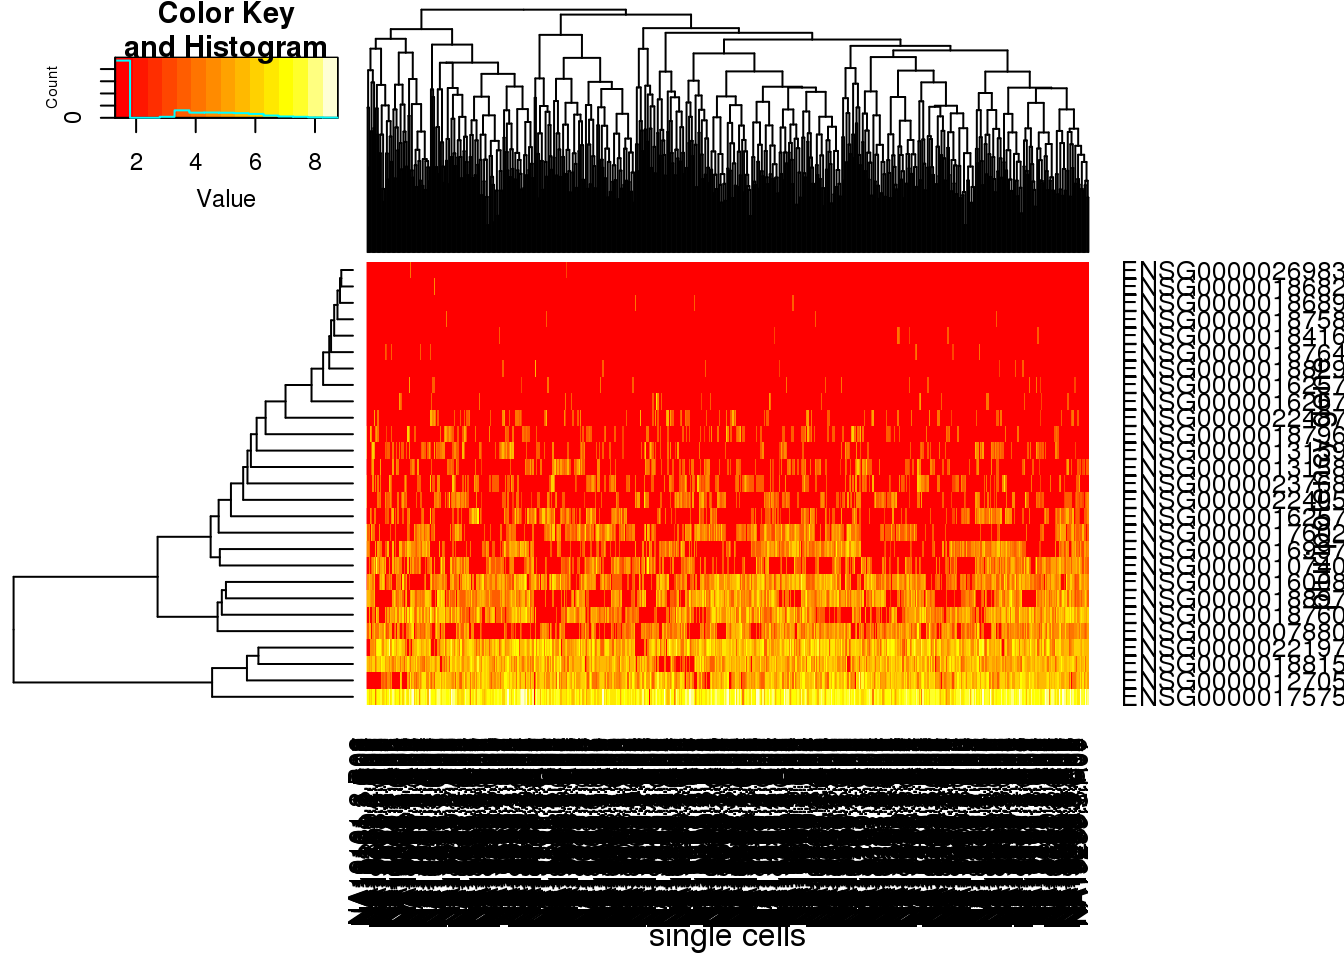
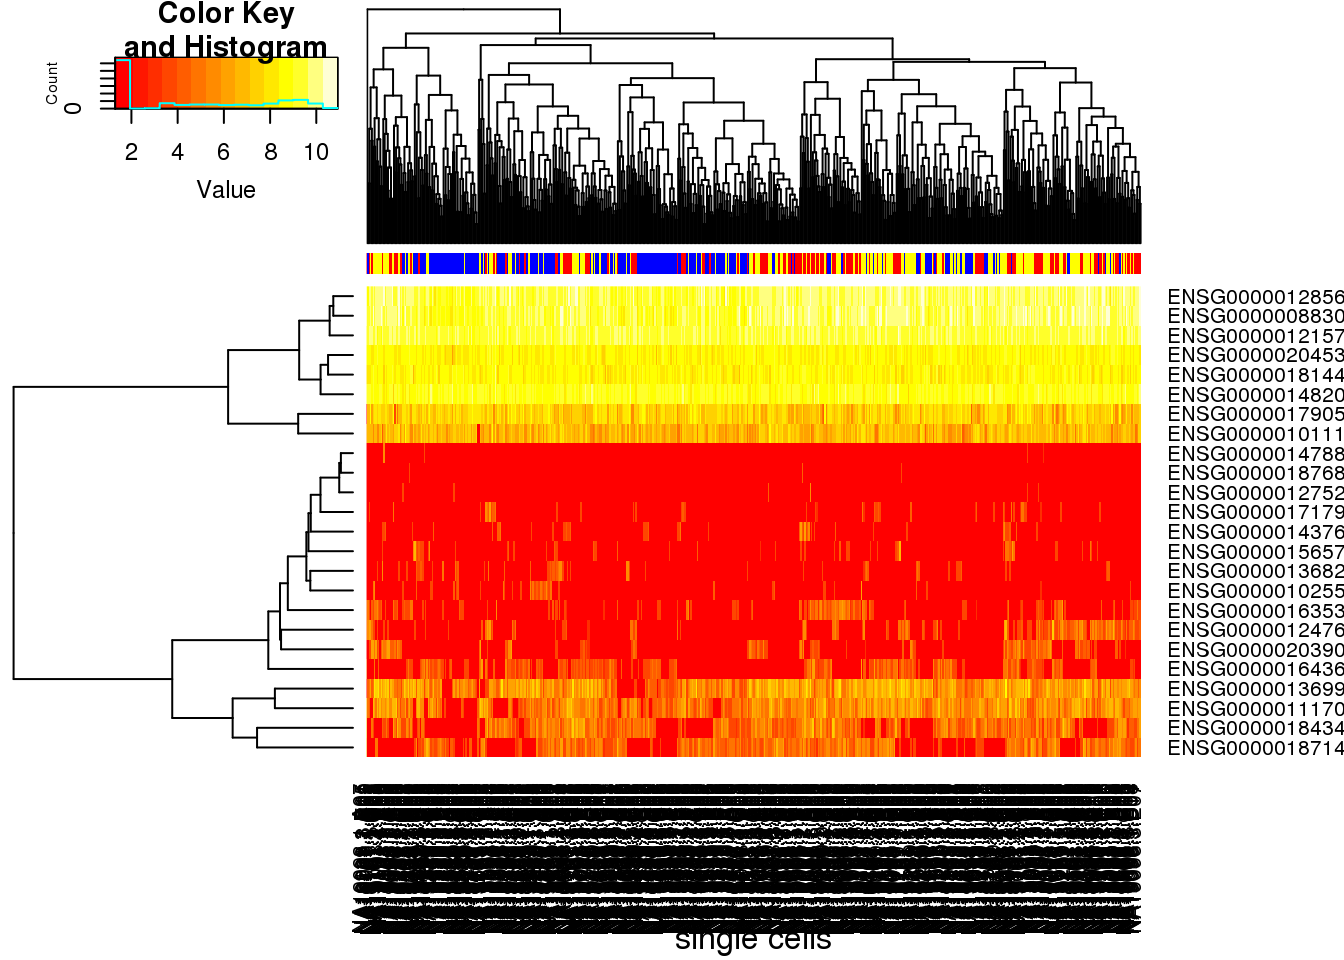
Build site.

diff --git a/analysis/stemness.html b/analysis/stemness.html
@@ -127,13 +127,14 @@ img {
 <div id="TOC">
 <ul>
 <li><a href="#input">Input</a></li>
-<li><a href="#expressions-of-pluripotency-genes">Expressions of pluripotency genes</a></li>
+<li><a href="#expressions-of-pluripotency-genes-in-ipscs">Expressions of pluripotency genes in iPSCs</a></li>
+<li><a href="#use-lcls-as-a-negative-control">Use LCLs as a negative control</a></li>
 <li><a href="#session-information">Session information</a></li>
 </ul>
 </div>
 
-<p><strong>Last updated:</strong> 2015-07-13</p>
-<p><strong>Code version:</strong> a4d865fb33bba771e8c3bdcd182882556aedab55</p>
+<p><strong>Last updated:</strong> 2015-08-11</p>
+<p><strong>Code version:</strong> 71b0941a1ada8745544596478a1a97761f5a4b2a</p>
 <p>Current model of reprogramming suggests that pluripotency occurs in two-phases: a prolonged stochastic phase followed by a rapid deterministic phase. <a href="http://journals.plos.org/plosone/article?id=10.1371/journal.pone.0095304">Chung2014</a> Our iPSCs were reprogrammed and cultured in mane different batches. In addition, some lines have been through different culture mediums. In order to make sure that the variance we observed at the single cell level is not cause by different levels of plupotency, we need to more rigorously estimate the cells status than just carrying out pluritest from the bulk.</p>
 <div id="input" class="section level2">
 <h2>Input</h2>
@@ -141,7 +142,8 @@ img {
 library(&quot;ggplot2&quot;)
 theme_set(theme_bw(base_size = 16))
 library(&quot;edgeR&quot;)
-library(&quot;gplots&quot;)</code></pre>
+library(&quot;gplots&quot;)
+library(&quot;RColorBrewer&quot;)</code></pre>
 <p>Input annotation.</p>
 <pre class="r"><code>anno &lt;- read.table(&quot;../data/annotation.txt&quot;, header = TRUE,
                    stringsAsFactors = FALSE)
@@ -200,18 +202,88 @@ reads_single &lt;- reads[, anno$well != &quot;bulk&quot;]</code></pre>
 reads_bulk_cpm &lt;- cpm(reads_bulk, log = TRUE,
                           lib.size = colSums(reads_bulk) * norm_factors_bulk)</code></pre>
 </div>
-<div id="expressions-of-pluripotency-genes" class="section level2">
-<h2>Expressions of pluripotency genes</h2>
+<div id="expressions-of-pluripotency-genes-in-ipscs" class="section level2">
+<h2>Expressions of pluripotency genes in iPSCs</h2>
 <p>Input pluripotency genes. A list of 27 pluripotency genes used to demonstrate iPSC heterogeneity in <a href="http://www.jci.org/articles/view/44635">Narshinh2011</a> Gene ID conversion was done by using the DAVID <a href="http://david.abcc.ncifcrf.gov" class="uri">http://david.abcc.ncifcrf.gov</a></p>
 <pre class="r"><code>pluripotency_genes &lt;- read.table(&quot;../data/pluripotency-genes.txt&quot;, header = TRUE, sep=&quot;\t&quot;)</code></pre>
 <p>Expression of plurypotency genes in iPSCs</p>
-<pre class="r"><code>molecules_single_pluripotency &lt;- molecules_single_cpm[pluripotency_genes[,2],]
-reads_bulk_pluripotency &lt;- reads_bulk_cpm[pluripotency_genes[,2],]
+<pre class="r"><code>molecules_single_pluripotency &lt;- molecules_single_cpm[rownames(molecules_single_cpm) %in% pluripotency_genes[,2],]
 
-heatmap.2(molecules_single_pluripotency, trace=&quot;none&quot;, cexRow=1,cexCol=1,margins=c(8,8),xlab=&quot;single cells&quot;, ylab= &quot;pluripotency gene&quot;)</code></pre>
+reads_bulk_pluripotency &lt;- reads_bulk_cpm[rownames(reads_bulk_cpm) %in% pluripotency_genes[,2],]
+
+### heatmap 
+individual &lt;- colnames(molecules_single_pluripotency)
+color &lt;- rep(&quot;yellow&quot;,dim(molecules_single_pluripotency)[2])
+color[grep(&quot;19098&quot;, individual)] &lt;- &quot;red&quot;
+color[grep(&quot;19239&quot;, individual)] &lt;- &quot;blue&quot;
+
+heatmap.2(molecules_single_pluripotency, trace=&quot;none&quot;, cexRow=1, cexCol=1, margins=c(8,8), xlab=&quot;single cells&quot;, ColSideColors=color)</code></pre>
 <p><img src="figure/stemness.Rmd/expressed-pluripotency-gene-1.png" title="" alt="" width="672" style="display: block; margin: auto;" /></p>
-<pre class="r"><code>heatmap.2(reads_bulk_pluripotency, trace=&quot;none&quot;, cexRow=1,cexCol=1,margins=c(8,8),xlab=&quot;bulk&quot;, ylab= &quot;pluripotency gene&quot;)</code></pre>
+<pre class="r"><code>colorbulk &lt;- rep(c(&quot;red&quot;,&quot;yellow&quot;,&quot;blue&quot;),each=3)
+heatmap.2(reads_bulk_pluripotency, trace=&quot;none&quot;, cexRow=1, cexCol=1, margins=c(8,8),xlab=&quot;bulk&quot;, ColSideColors=colorbulk)</code></pre>
 <p><img src="figure/stemness.Rmd/expressed-pluripotency-gene-2.png" title="" alt="" width="672" style="display: block; margin: auto;" /></p>
+<pre class="r"><code>pca_single_cells &lt;- prcomp(t(molecules_single_pluripotency), retx = TRUE, scale. = TRUE, center = TRUE)
+
+plot(pca_single_cells)</code></pre>
+<p><img src="figure/stemness.Rmd/expressed-pluripotency-gene-pca-1.png" title="" alt="" width="672" style="display: block; margin: auto;" /></p>
+</div>
+<div id="use-lcls-as-a-negative-control" class="section level2">
+<h2>Use LCLs as a negative control</h2>
+<p>Input LCL annotation.</p>
+<pre class="r"><code>anno_lcl &lt;- read.table(&quot;../data/annotation-lcl.txt&quot;, header = TRUE,
+                   stringsAsFactors = FALSE)
+head(anno_lcl)</code></pre>
+<pre><code>  individual batch well     sample_id full_lane
+1      19239     1  A01 NA19239.1.A01     FALSE
+2      19239     1  A02 NA19239.1.A02     FALSE
+3      19239     1  A03 NA19239.1.A03     FALSE
+4      19239     1  A04 NA19239.1.A04     FALSE
+5      19239     1  A05 NA19239.1.A05     FALSE
+6      19239     1  A06 NA19239.1.A06     FALSE</code></pre>
+<p>Input LCL molecule counts.</p>
+<pre class="r"><code>molecules_lcl &lt;- read.table(&quot;../data/molecules-lcl.txt&quot;, header = TRUE,
+                    stringsAsFactors = FALSE)</code></pre>
+<p>Input LCL read counts.</p>
+<pre class="r"><code>reads_lcl &lt;- read.table(&quot;../data/reads-lcl.txt&quot;, header = TRUE,
+                    stringsAsFactors = FALSE)</code></pre>
+<p>Input list of quality single cells of LCL.</p>
+<pre class="r"><code>quality_single_cells_lcl &lt;- scan(&quot;../data/quality-single-cells-lcl.txt&quot;,
+                             what = &quot;character&quot;)</code></pre>
+<p>Keep only the single cells that passed the <a href="qc-cell-lcl.html">QC filters</a> and the bulk samples.</p>
+<pre class="r"><code>molecules_lcl &lt;- molecules_lcl[colnames(molecules_lcl) %in% quality_single_cells_lcl]
+anno_lcl &lt;- anno_lcl[anno_lcl$full_lane == &quot;FALSE&quot; &amp; anno_lcl$sample_id %in% quality_single_cells_lcl, ]
+stopifnot(ncol(molecules_lcl) == nrow(anno_lcl),
+          colnames(molecules_lcl) == anno_lcl$sample_id)
+molecules_single_lcl &lt;- molecules_lcl[, anno_lcl$full_lane == &quot;FALSE&quot;]</code></pre>
+<pre class="r"><code>molecules_single_lcl &lt;- molecules_single_lcl[apply(molecules_single_lcl,1,max) &lt; 1024,]
+molecules_single_collision_lcl &lt;- -1024 * log(1 - molecules_single_lcl / 1024)</code></pre>
+<p>Standardization</p>
+<pre class="r"><code>molecules_single_cpm_lcl &lt;- cpm(molecules_single_collision_lcl, log = TRUE)</code></pre>
+<p>Expression of plurypotency genes in LCL</p>
+<pre class="r"><code>molecules_single_pluripotency_lcl &lt;- molecules_single_cpm_lcl[rownames(molecules_single_cpm_lcl) %in% pluripotency_genes[,2],]
+
+heatmap.2(molecules_single_pluripotency_lcl, trace=&quot;none&quot;, cexRow=1, cexCol=1, margins=c(8,8),xlab=&quot;single cells&quot;, ylab= &quot;pluripotency gene&quot;)</code></pre>
+<p><img src="figure/stemness.Rmd/expressed-pluripotency-gene-lcl-1.png" title="" alt="" width="672" style="display: block; margin: auto;" /></p>
+<pre class="r"><code>### merge two cell types
+molecules_single_pluripotency_all &lt;- merge(molecules_single_pluripotency,molecules_single_pluripotency_lcl,by = &quot;row.names&quot;, all = TRUE)
+
+### save gene name
+gene_name &lt;- molecules_single_pluripotency_all[,&quot;Row.names&quot;]
+
+### remove the column and na for data.matrix
+molecules_single_pluripotency_all  &lt;- molecules_single_pluripotency_all[,!colnames(molecules_single_pluripotency_all) == &quot;Row.names&quot;]
+
+molecules_single_pluripotency_all[is.na(molecules_single_pluripotency_all)] &lt;- 0
+
+### data.matrix for heatmap and add gene name
+molecules_single_pluripotency_all &lt;- 
+data.matrix(molecules_single_pluripotency_all)
+
+rownames(molecules_single_pluripotency_all) &lt;- gene_name
+
+### heatmap
+heatmap.2(molecules_single_pluripotency_all, trace=&quot;none&quot;, cexRow=1, cexCol=1, margins=c(8,8),xlab=&quot;single cells&quot;, ylab= &quot;pluripotency gene&quot;)</code></pre>
+<p><img src="figure/stemness.Rmd/expressed-pluripotency-gene-all-1.png" title="" alt="" width="672" style="display: block; margin: auto;" /></p>
 </div>
 <div id="session-information" class="section level2">
 <h2>Session information</h2>
@@ -231,8 +303,9 @@ attached base packages:
 [1] stats     graphics  grDevices utils     datasets  methods   base     
 
 other attached packages:
-[1] gplots_2.17.0 edgeR_3.10.2  limma_3.24.9  ggplot2_1.0.1 dplyr_0.4.1  
-[6] knitr_1.10.5 
+[1] RColorBrewer_1.1-2 gplots_2.17.0      edgeR_3.10.2      
+[4] limma_3.24.9       ggplot2_1.0.1      dplyr_0.4.1       
+[7] knitr_1.10.5      
 
 loaded via a namespace (and not attached):
  [1] Rcpp_0.11.6        magrittr_1.5       MASS_7.3-40       

diff --git a/analysis/index.html b/analysis/index.html
@@ -133,7 +133,7 @@ img {
 </div>
 
 <p><strong>Last updated:</strong> 2015-08-11</p>
-<p><strong>Code version:</strong> adc1020ec64a91c9c0c8089ad8a31bf4b480c5e7</p>
+<p><strong>Code version:</strong> 71b0941a1ada8745544596478a1a97761f5a4b2a</p>
 <div id="notes" class="section level2">
 <h2>Notes</h2>
 <ul>
@@ -166,7 +166,7 @@ img {
 <li><a href="ercc-normalization.html">ERCC normalization</a>
 <ul>
 <li><a href="gamma-regression-model.html">Gamma regression model (GRM)</a></li>
-<li><a href="basics.Rmd">BASiCS</a></li>
+<li><a href="basics.html">BASiCS</a></li>
 </ul></li>
 <li><a href="subsample.html">Subsample</a> - (<a href="subsample-lcl.html">LCLs</a>)
 <ul>
